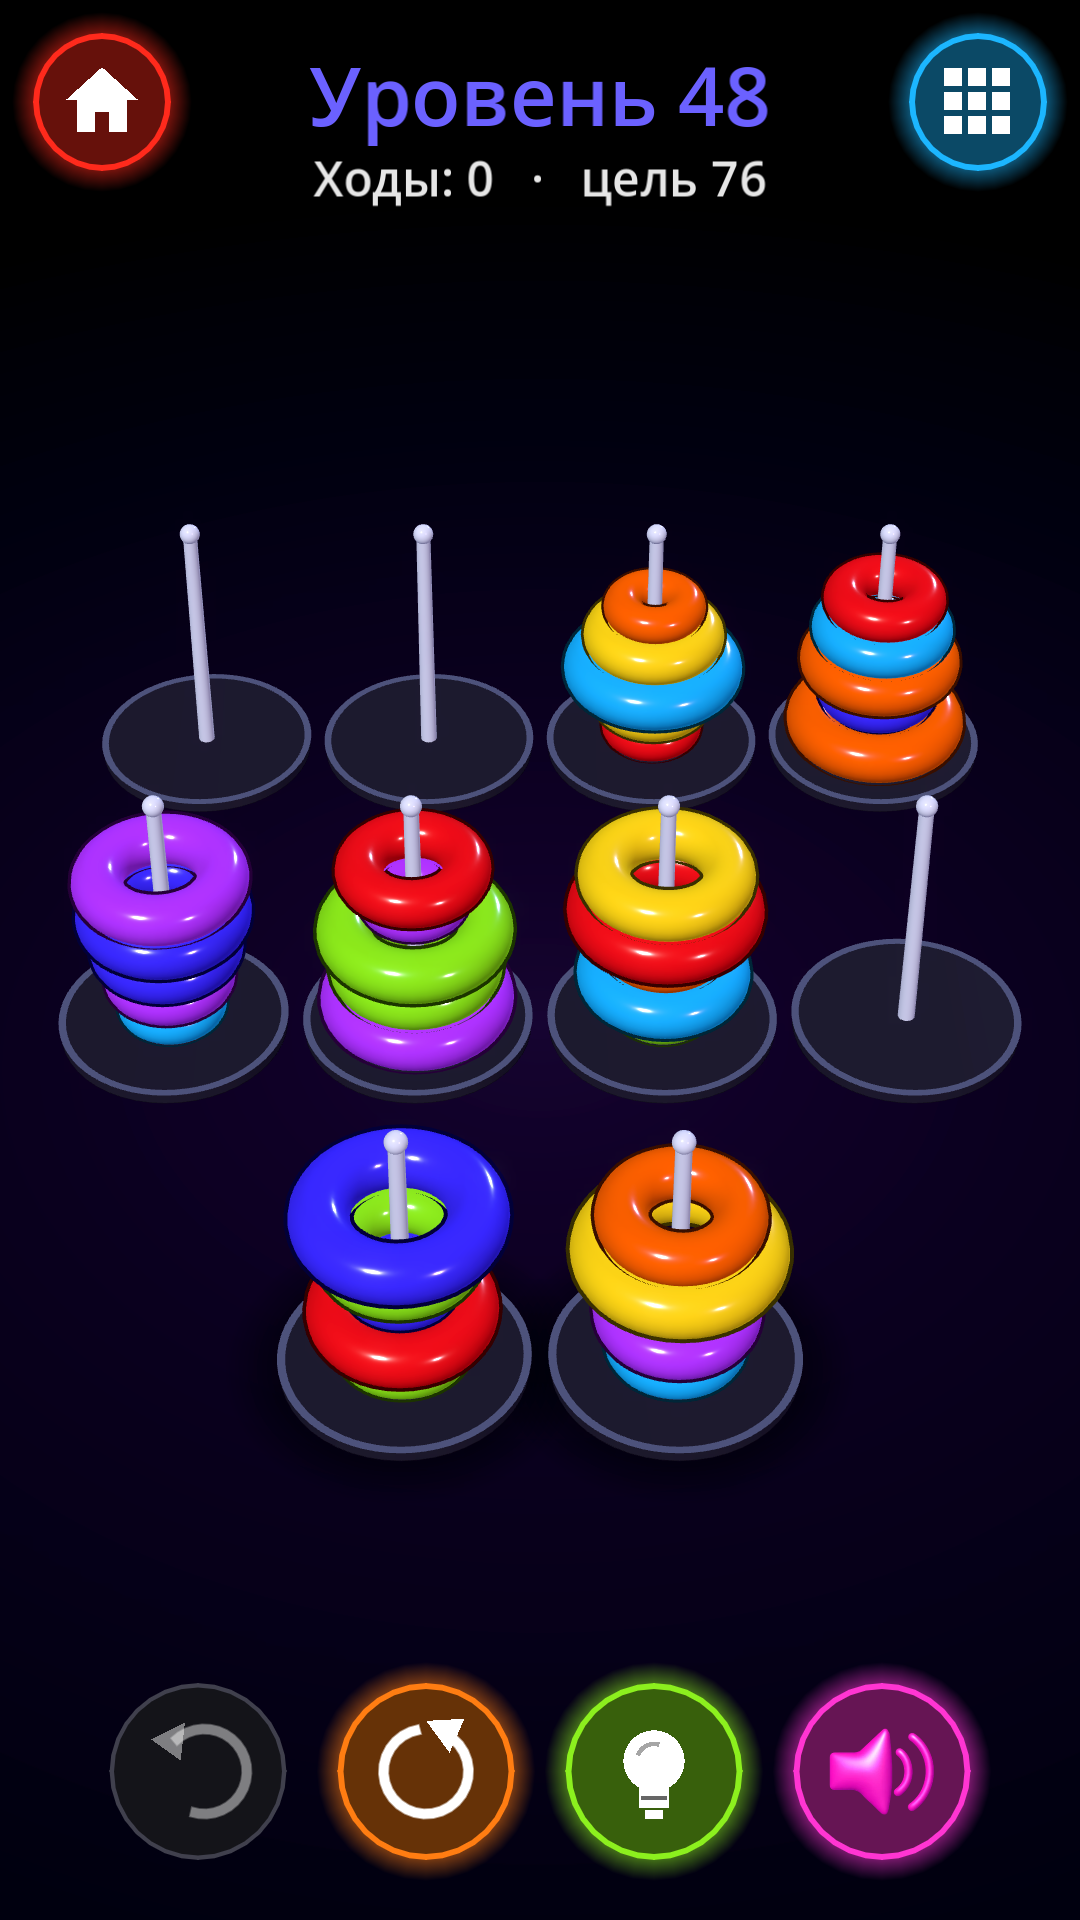
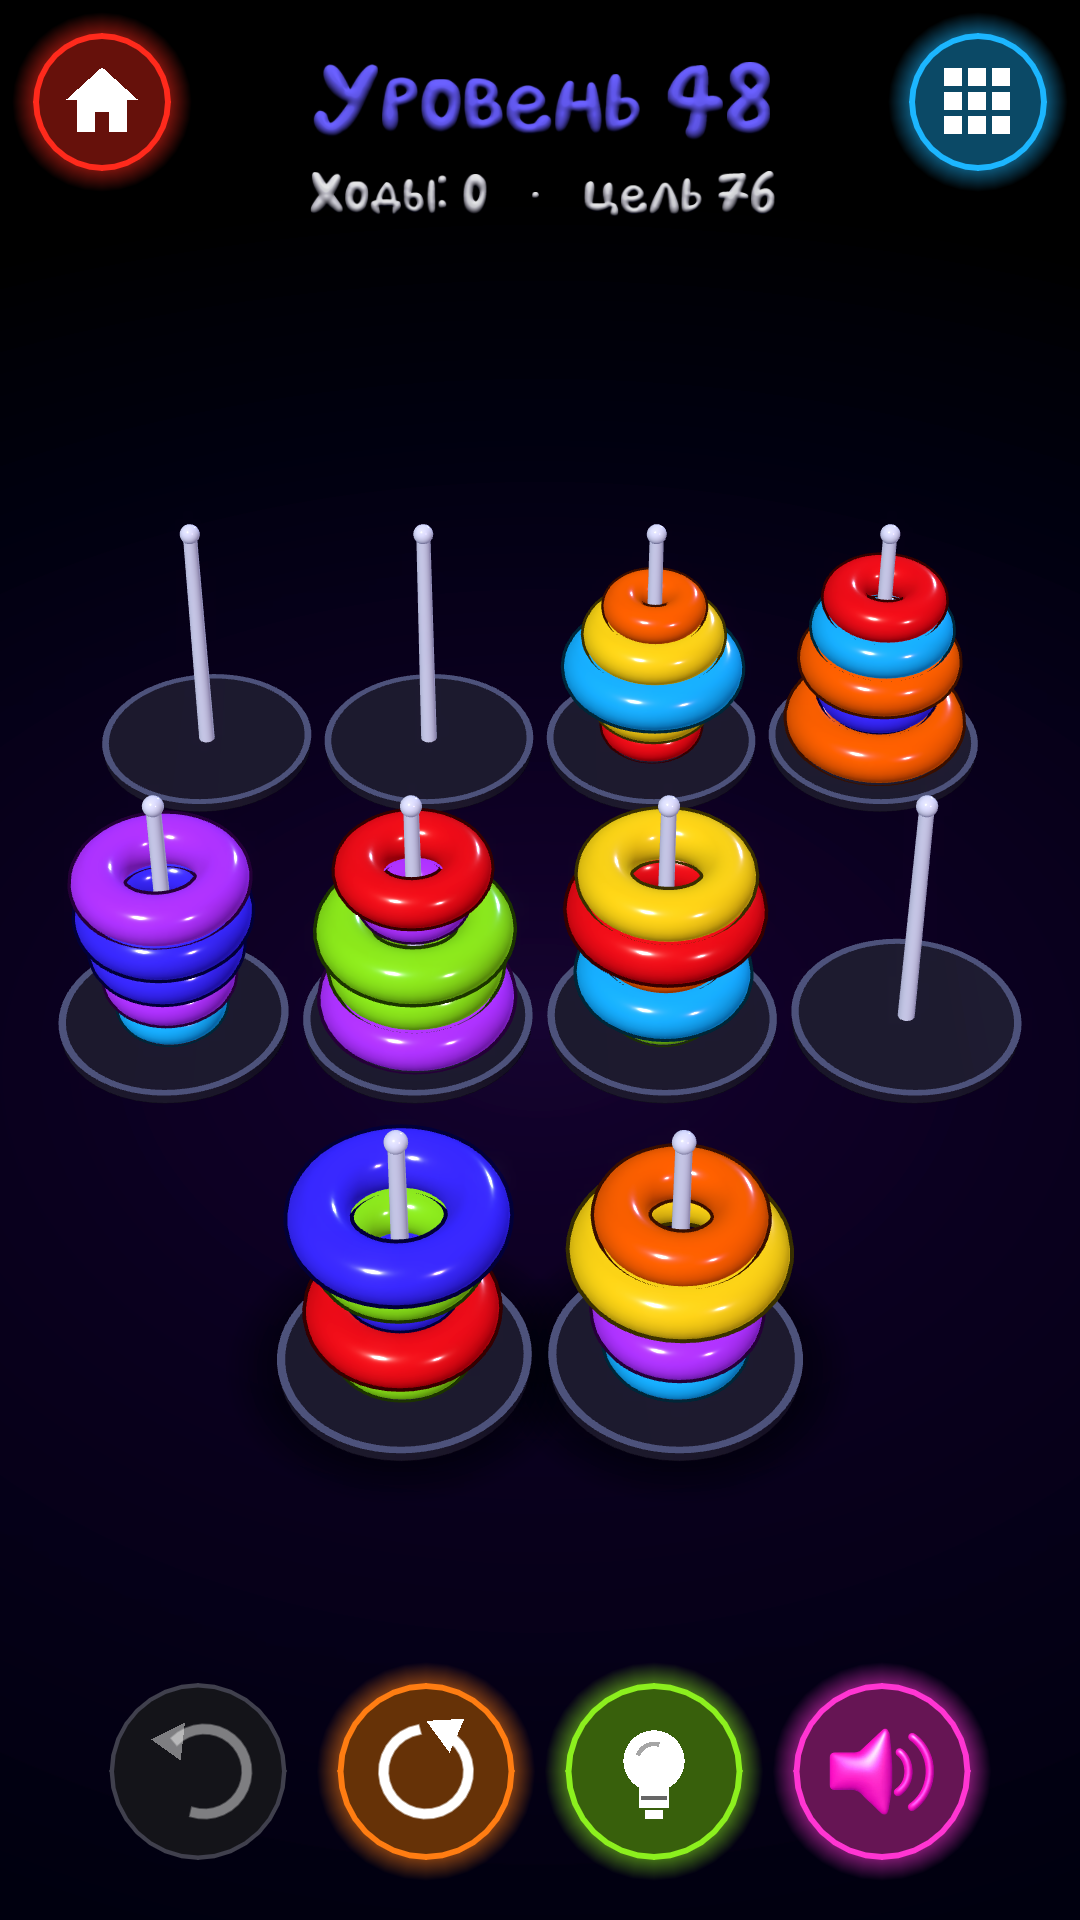
AGENTS.md: font pipeline, Play asset-panel notes; 1.1.0 store screenshots

Changed region(s): [[0.275, 0.0312, 0.7333, 0.125]]

diff --git a/AGENTS.md b/AGENTS.md
@@ -7,7 +7,7 @@
 | Project (Godot 4.7, GL Compatibility) | `C:\My-progs\Godot\rings` |
 | GitHub (public) | https://github.com/msveshnikov/rainbow-pyramids (remote `origin`, branch `master`) |
 | Downloads | GitHub releases: `RainbowPyramids.exe`, `RainbowPyramids.apk` (`releases/latest/download/...`) |
-| Google Play | «Радужные пирамидки», package `com.maxsoft.rainbowpyramids`, Play Console app id 4976247712351862733 (dev 5957945224586801272); first release 7 (1.0.6) sent for review 2026-11-18; 1.0.7 (code 8, glossy logo v3, new ru/en store art) sent for review 2026-11-18; 1.0.8 (code 9, glossy UI icons) web/GitHub only; 1.0.7 went live; 1.0.9 (code 10, icons + HUD layout fix + safe-area insets, new ru/en screenshots) sent for review 2026-11-19 |
+| Google Play | «Радужные пирамидки», package `com.maxsoft.rainbowpyramids`, Play Console app id 4976247712351862733 (dev 5957945224586801272); first release 7 (1.0.6) sent for review 2026-11-18; 1.0.7 (code 8, glossy logo v3, new ru/en store art) sent for review 2026-11-18; 1.0.8 (code 9, glossy UI icons) web/GitHub only; 1.0.7 went live; 1.0.9 (code 10, icons + HUD layout fix + safe-area insets, new ru/en screenshots) sent for review 2026-11-19 and went live; 1.1.0 (code 11, daughter's glossy font, new ru/en screenshots) sent for review 2026-11-20 |
 | Play upload key | `~/.android/rainbowpyramids-upload.jks` (alias `rainbowpyramids`, password in `rainbowpyramids-upload.txt`); Godot reads it from `.godot/export_credentials.cfg` (preset.3). Never commit. |
 | Live web build | https://severance.lol/7/ = https://maxims.top/pyramids/ |
 | maxims.top portal card | source `C:\My-progs\Godot\snacks\maxims\index.html` + `img/pyramids.jpg`; server symlink `/var/www/maxims/pyramids -> /var/www/severance/7` |
@@ -17,6 +17,7 @@
 | Levels | `assets/levels/levels.json`, made by `python tools/gen_levels.py` |
 | Sounds | `assets/audio/*` (CC0, sources in `assets/CREDITS.md`) |
 | Concept art from the owner | `concept/` (ignored by Godot via `.gdignore`) |
+| Font (daughter's glossy letters) | sheets `concept/fonts/*.png` → `python tools/cut_font.py` (atlas + metrics into `concept/fonts/build/`, git-ignored) → `"$G" --headless --path . --script tools/build_font.gd` → `assets/fonts/glossy.res`; installed globally by `UiKit.install_font()` |
 | Save file | `user://save.json` (Windows: `%APPDATA%\Godot\app_userdata\Rainbow Pyramids\`) |
 | Autotest output | `renders/game/*.png`, `renders/autotest.log` |
 | Builds | `build/windows/RainbowPyramids.exe`, `build/web/`, `build/android/RainbowPyramids.apk` |
@@ -64,3 +65,5 @@ Keep MSAA off on web/mobile (Mali driver leak); `main.gd` turns 4x MSAA on only 
 Declarations used: no ads, no data collected, no login, 13+, IARC all "No" (Everyone), assets not AI-made (the logo, incl. the glossy v3, was drawn by the owner's daughter).
 Store screenshots: upload all at once in the asset panel, then drag them into order 1-7 (real drags work; keep drop points below the sticky header and above the bottom bar, scroll the slot container between moves).
 Layout: `_place()` in main.gd sizes a control to its combined minimum before anchoring (a Button's own minimum ignores custom_minimum_size) and adds Android safe-area insets; IconButtons shrink-center so rows never stretch them. Check new UI at 462x1000, 540x960, 768x1024 and 1280x720.
+Font: one silver bitmap font for all UI text (Latin from `silver.png`, Cyrillic from `silver_ru.png`); `font_color` tints it, so pick label colours light enough. The UI sits under a CanvasLayer, so a Window theme does not reach it: the font goes into `ThemeDB.get_default_theme()`. Glyphs she didn't draw fall back to the stock font. The pink/cyan/blue/green sheets are Latin only and unused.
+Play screenshots: the asset panel puts uploads straight into the open slot (max 8; extra files are dropped, not stored), so upload one language's 7 at a time. Panel item → hover → arrow → «Добавить» appends to the slot; drags only work onto an occupied thumbnail (drop on its left half to insert before it).
